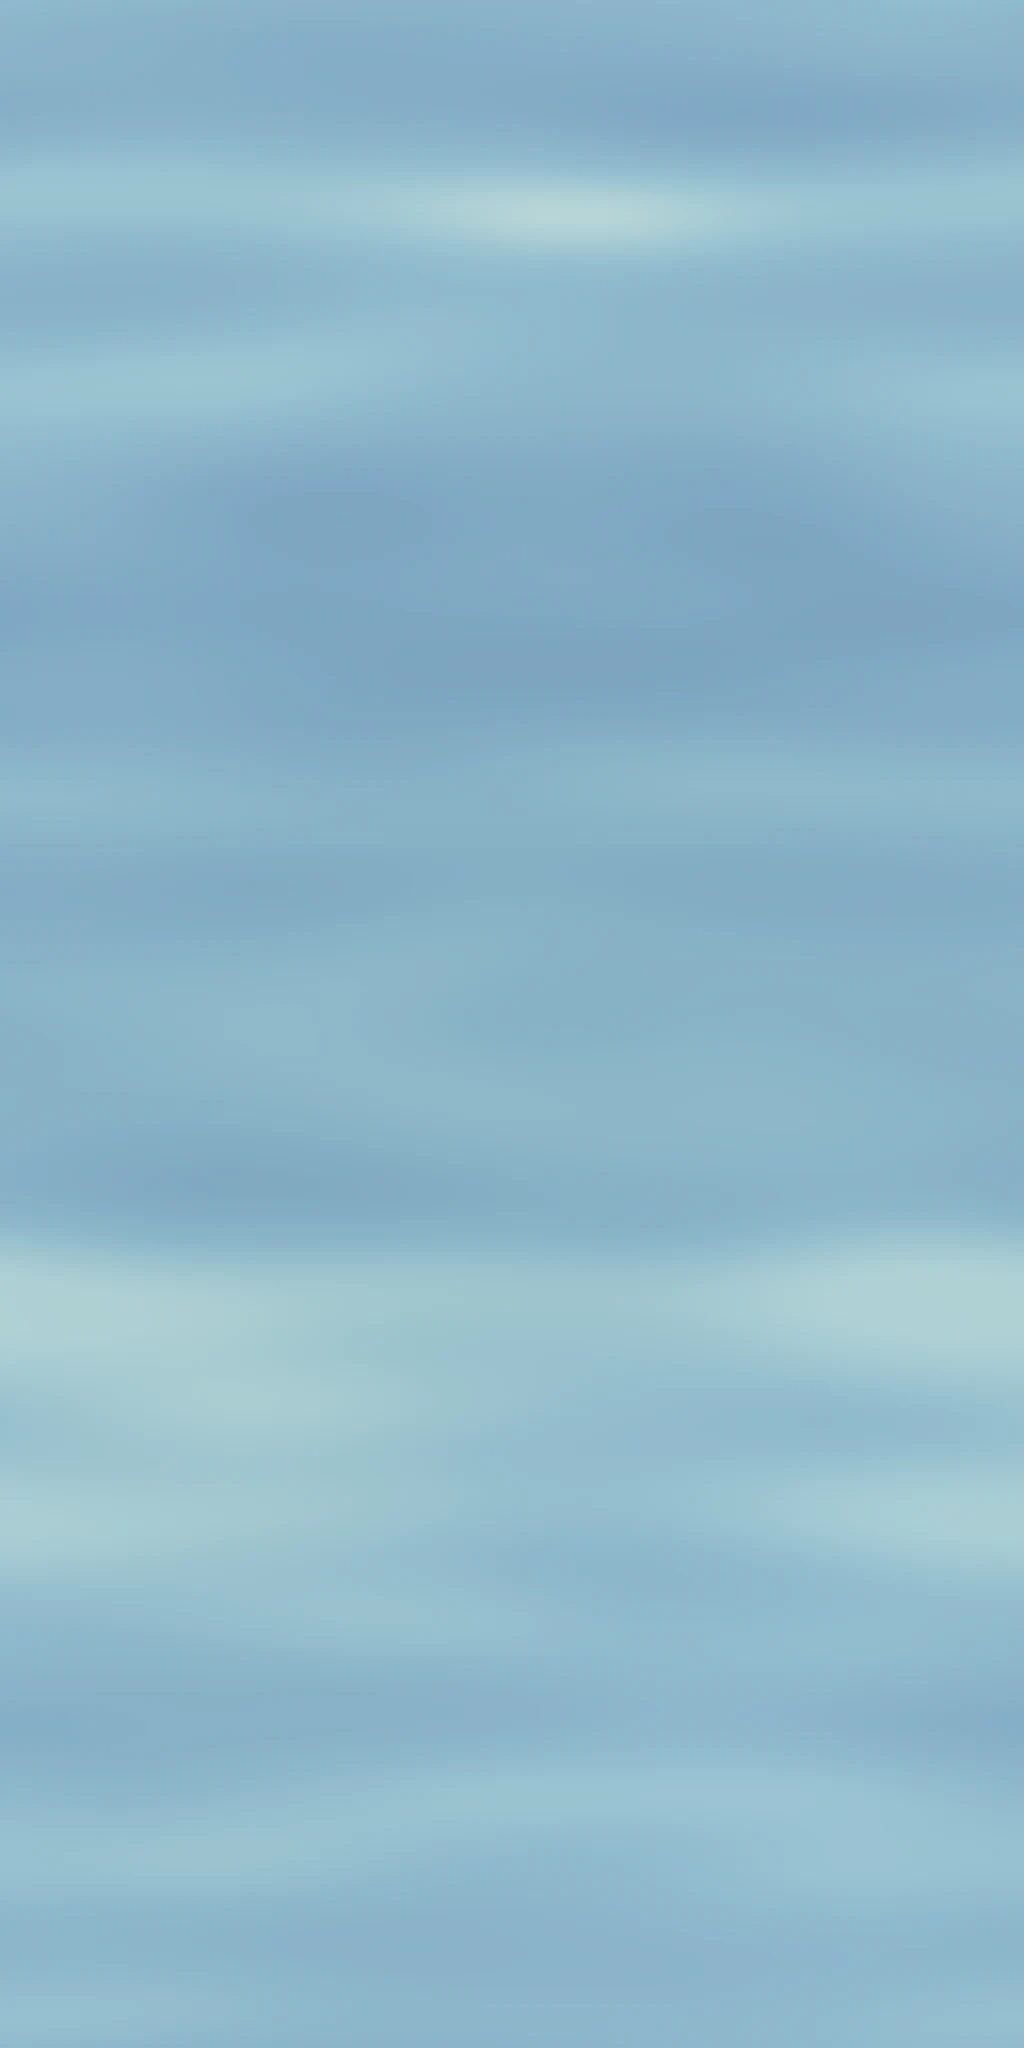
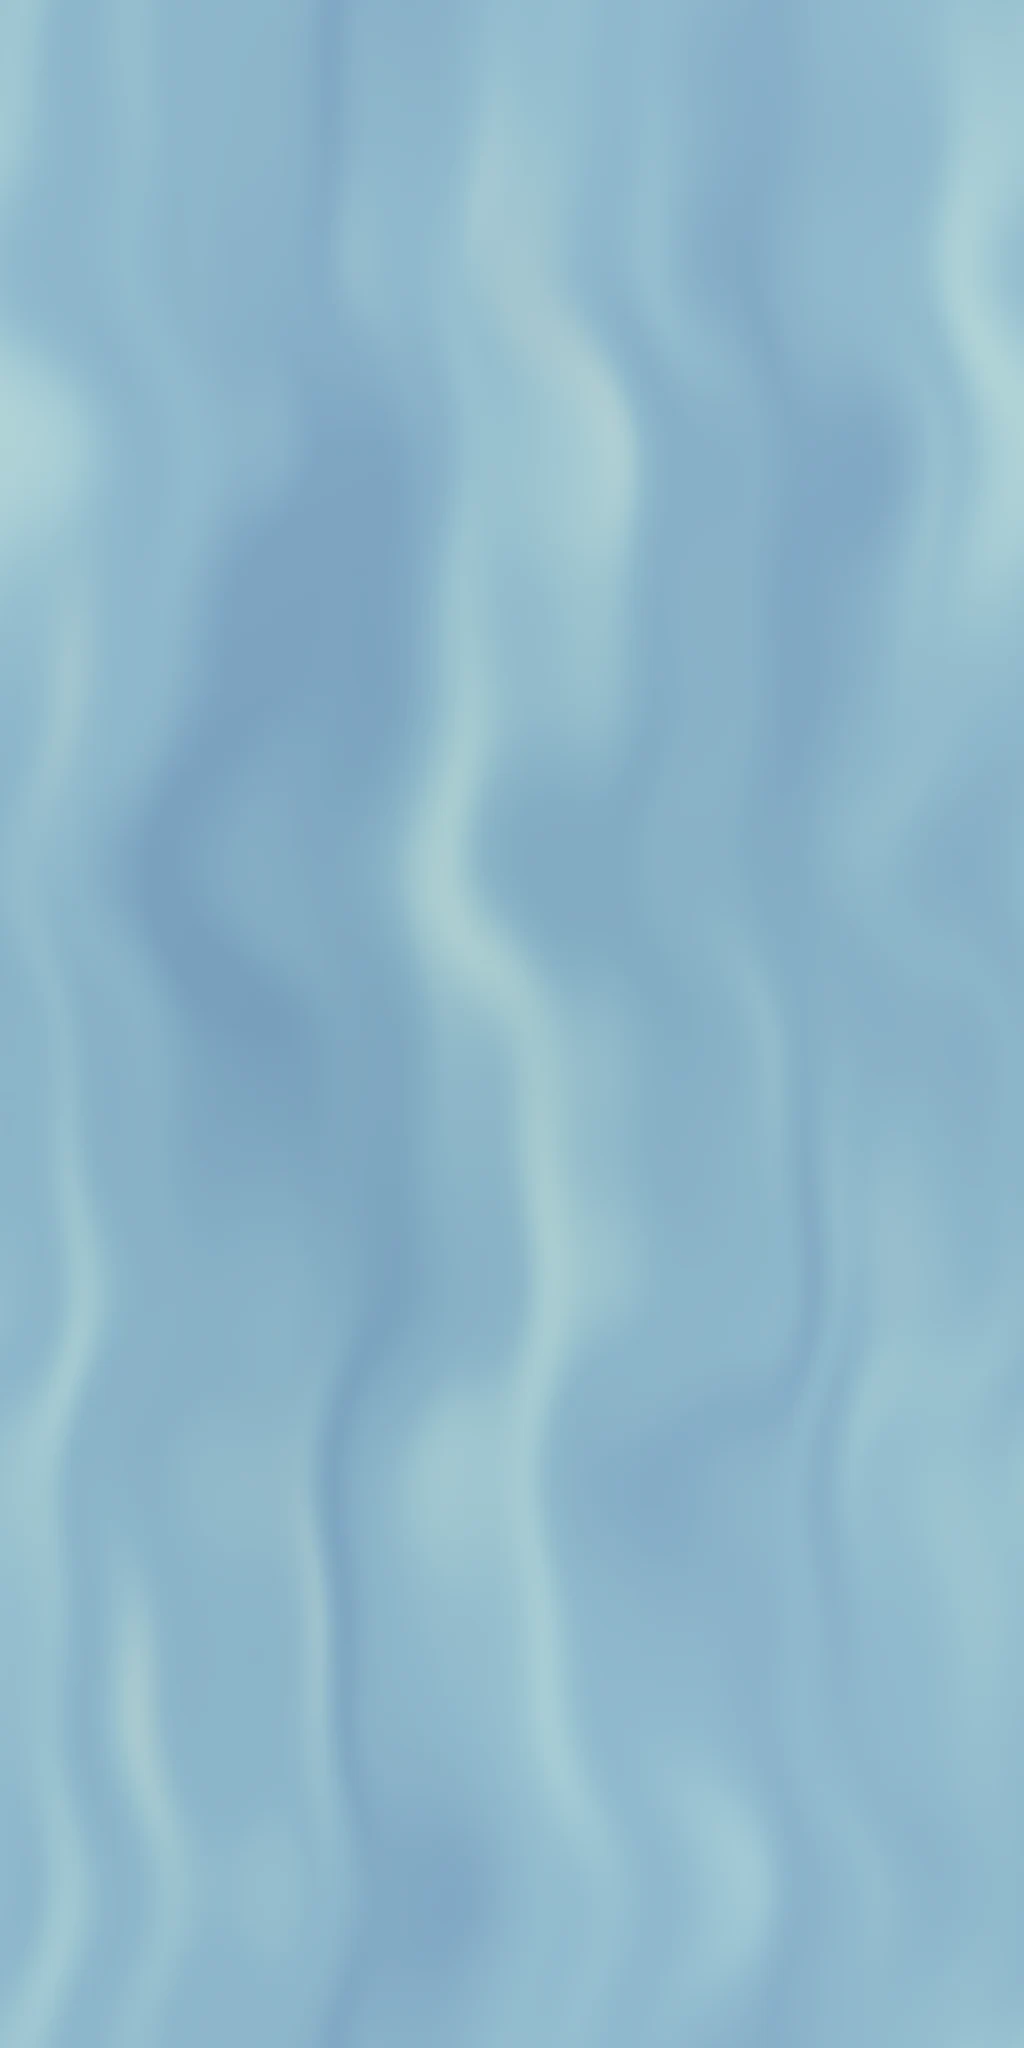
flow background: vertical wavy bands, aligned to the swipe axis
Bands run vertically so the drift follows the reader's own scroll/swipe direction, and are
domain-warped (periodic sine + low-frequency noise displacement, sampled with wraparound)
so they undulate instead of running as straight parallel lines. Wraparound sampling is what
keeps the warp from breaking the FFT tiling guarantee.

seam delta 0.046 vs interior row delta 0.057; luminance spread 50/255.

Claude-Session: https://claude.ai/code/session_012a34QXD8VAtDxe3rmsatcJ

diff --git a/tools-flowbg/flowbg.py b/tools-flowbg/flowbg.py
@@ -8,12 +8,17 @@ the palette sampled from the reference. All three are guarantees here and none o
 holdable across six generation attempts.
 
 Seamlessness comes from building the noise in the frequency domain: an inverse FFT of a
-low-passed random spectrum is periodic in both axes by definition, so the tile wraps exactly.
+low-passed random spectrum is periodic in both axes by definition. The domain warp that makes
+the bands undulate is built from the same kind of periodic field and sampled with wraparound
+indexing, so warping preserves the tiling guarantee rather than breaking it.
+
+Bands run VERTICALLY, along the axis the reader swipes.
 """
 import numpy as np
 from PIL import Image
 
 W, H = 1024, 2048
+OUT = "/Users/helmyheiry/wedding-invite-app/.worktrees/rose-horizon-20260908/docs/rose-horizon-art"
 
 # Palette sampled from the reference by sample-palette.py (spec/style.json)
 POWDER = (0x9c, 0xc8, 0xd3)   # pale powder-blue sky
@@ -23,40 +28,66 @@ CREAM = (0xfa, 0xeb, 0xcc)    # warm ivory cream — used only as a faint warm b
 
 
 def periodic_noise(shape, scale, seed, stretch=1.0):
-    """Smooth noise that wraps exactly in both axes (inverse FFT of a low-passed spectrum).
+    """Smooth noise wrapping exactly in both axes (inverse FFT of a low-passed spectrum).
 
-    `stretch` > 1 elongates features horizontally, which is what turns round blobs into
-    drifting current-like bands.
+    stretch > 1 smooths along y, which elongates features VERTICALLY.
     """
     rng = np.random.default_rng(seed)
     h, w = shape
     spec = rng.normal(size=(h, w)) + 1j * rng.normal(size=(h, w))
     fy = np.fft.fftfreq(h)[:, None]
     fx = np.fft.fftfreq(w)[None, :]
-    radius = np.sqrt((fy / stretch) ** 2 + (fx * stretch) ** 2)
+    radius = np.sqrt((fy * stretch) ** 2 + (fx / stretch) ** 2)
     radius[0, 0] = 1e-6
-    spec *= np.exp(-(radius * scale) ** 2)      # gaussian low-pass -> soft, cloudy shapes
+    spec *= np.exp(-(radius * scale) ** 2)
     field = np.real(np.fft.ifft2(spec))
     field -= field.min()
     return field / (field.max() + 1e-9)
 
 
-def ramp(t, c0, c1):
-    t = t[..., None]
-    return np.array(c0) * (1 - t) + np.array(c1) * t
+def warp(field, dx, dy):
+    """Resample `field` at displaced coordinates, wrapping at every edge.
+
+    Wraparound indexing is what keeps the warped result periodic — a warp that clamped or
+    reflected at the edges would destroy the seam guarantee the FFT gives us.
+    """
+    h, w = field.shape
+    yy, xx = np.meshgrid(np.arange(h), np.arange(w), indexing="ij")
+    sy = (yy + dy).astype(np.int64) % h
+    sx = (xx + dx).astype(np.int64) % w
+    return field[sy, sx]
 
 
-# Large drifting current bands + a slower second octave + fine grain, all periodic.
-# stretch>1 elongates horizontally so the wash reads as lateral drift, not blobs.
-base = periodic_noise((H, W), scale=620, seed=11, stretch=2.6)
-swirl = periodic_noise((H, W), scale=300, seed=27, stretch=1.9)
+# --- the wash ---------------------------------------------------------------------
+# Vertical current bands: strong smoothing along y, detail retained across x.
+base = periodic_noise((H, W), scale=520, seed=11, stretch=3.2)
+swirl = periodic_noise((H, W), scale=260, seed=27, stretch=2.2)
 grain = periodic_noise((H, W), scale=1400, seed=43)
+
+# --- make them wavy ---------------------------------------------------------------
+# Undulation = a lateral displacement that varies down the image, so a band snakes instead
+# of running straight. Two components: a couple of slow sine periods (readable, rhythmic)
+# plus low-frequency noise (keeps it organic rather than mechanical). Both are periodic in
+# y over exactly H, so the tile still wraps.
+yy = np.arange(H)[:, None]
+sine_wave = np.sin(2 * np.pi * 3 * yy / H) * 46 + np.sin(2 * np.pi * 7 * yy / H + 1.7) * 18
+noise_wave = (periodic_noise((H, W), scale=420, seed=61, stretch=2.8) - 0.5) * 150
+
+dx = sine_wave + noise_wave
+base = warp(base, dx, 0)
+swirl = warp(swirl, dx * 0.55, 0)
 
 field = 0.62 * base + 0.38 * swirl
 
 # Contrast: enough tonal movement to read as flowing, still compressed so text stays legible
 field = 0.5 + (field - field.mean()) * 1.55
 field = np.clip(field, 0, 1)
+
+
+def ramp(t, c0, c1):
+    t = t[..., None]
+    return np.array(c0) * (1 - t) + np.array(c1) * t
+
 
 img = ramp(field, CORNF, POWDER)
 
@@ -72,19 +103,17 @@ img = img * (1 - warm[..., None] * 0.14) + np.array(CREAM) * (warm[..., None] * 
 img += (grain[..., None] - 0.5) * 9.0
 
 img = np.clip(img, 0, 255).astype(np.uint8)
-out = Image.fromarray(img, "RGB")
-out.save("/Users/helmyheiry/wedding-invite-app/.worktrees/rose-horizon-20260908/docs/rose-horizon-art/flowbg-tile.png")
+Image.fromarray(img, "RGB").save(f"{OUT}/flowbg-tile.png")
 
-# --- verification -------------------------------------------------------------
+# --- verification -----------------------------------------------------------------
 a = img.astype(np.int16)
-wrap = np.abs(a[-1] - a[0]).mean()                     # last row vs first row (the seam)
-interior = np.abs(a[1:] - a[:-1]).mean()               # mean adjacent-row difference
-print(f"seam wrap delta   : {wrap:.3f}")
+wrap_delta = np.abs(a[-1] - a[0]).mean()
+interior = np.abs(a[1:] - a[:-1]).mean()
+print(f"seam wrap delta   : {wrap_delta:.3f}")
 print(f"interior row delta: {interior:.3f}")
-print(f"=> seam is {'INDISTINGUISHABLE from' if wrap <= interior * 1.5 else 'WORSE than'} a normal row step")
+print(f"=> seam is {'INDISTINGUISHABLE from' if wrap_delta <= interior * 1.5 else 'WORSE than'} a normal row step")
 
-lum = (0.2126 * a[..., 0] + 0.7152 * a[..., 1] + 0.0722 * a[..., 2])
+lum = 0.2126 * a[..., 0] + 0.7152 * a[..., 1] + 0.0722 * a[..., 2]
 print(f"luminance range   : {lum.min():.0f}-{lum.max():.0f} (spread {lum.max()-lum.min():.0f} of 255)")
 
-stack = np.vstack([img, img])
-Image.fromarray(stack, "RGB").save("/Users/helmyheiry/wedding-invite-app/.worktrees/rose-horizon-20260908/docs/rose-horizon-art/flowbg-seamtest.png")
+Image.fromarray(np.vstack([img, img]), "RGB").save(f"{OUT}/flowbg-seamtest.png")
